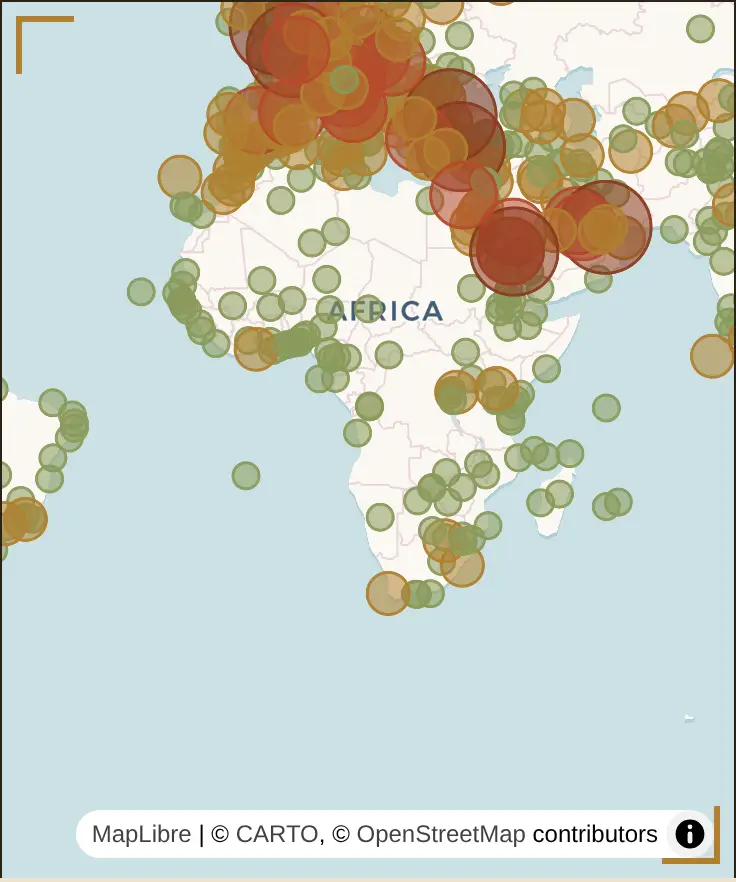
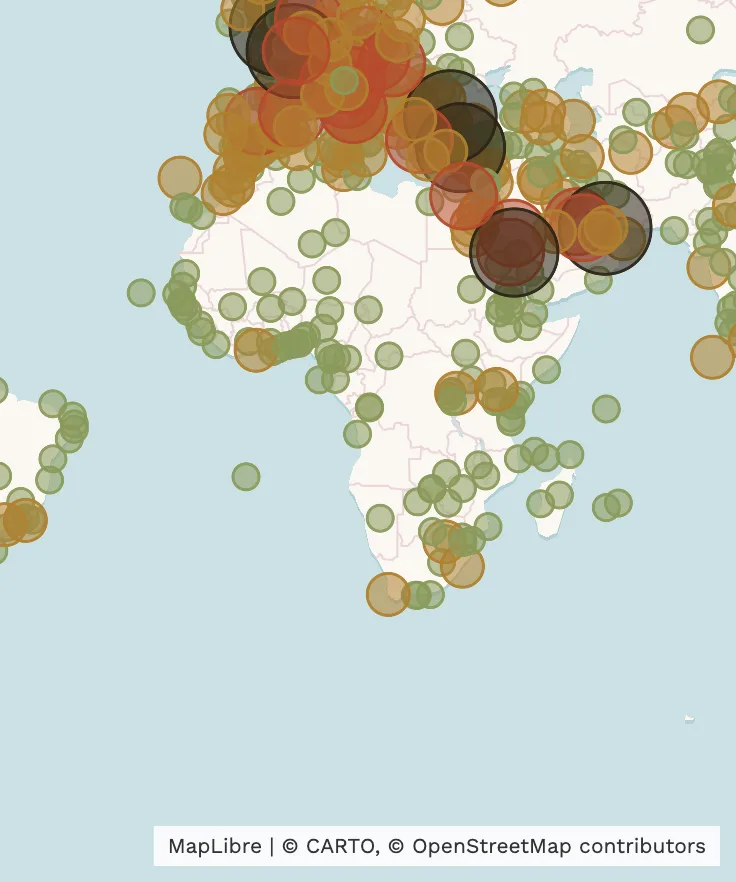
Homepage picks driven by the list pages' data, with shuffle; globe intro, legend tier toggles, ink 12M+ bubbles
The three homepage cards (Top visited, Underrated pick, Seasonal pick) were
fixed placeholders (Hong Kong, Lisbon, Marrakech; Lisbon was not on the
underrated list). Each now draws a random city from the same set its list
page shows, and "shuffle picks" draws new ones.
- underrated-picks-data.js: the editors' list, moved out of
  underrated-picks.html so the page and the homepage share one copy.
- season-picks.js: the month rule (ideal / events / avoid), moved out of
  best-time-to-visit.html; the homepage seasonal pool is the same 12 ideal
  cities that page shows this month. city-seasons.js loads after the cards
  paint.
- Cards: tag above the photo, "show more <tag>s" text link to the list page,
  "visit guide" opens the city's guide.
- Text above the globe: City Guides button (cities.html), "interactive
  globe", hint on its own small italic line.
- Legend: hide/show per visitor tier (filters the bubbles; on phones a tap
  also starts the live globe).
- 12 million+ bubbles in ink #2b2417 so they read apart from the rust tier;
  phone still-map picture regenerated from the live globe (736x882).

Verified: checkjs 0 errors on all three pages, node --check on both js;
homepage pools match the list pages (16 underrated, 12 ideal for October,
44 top visited); tier filter counts 522/172/30/12 hide and restore; no
overflow and two cards per row at 320/360/375/390/430, one row at 768/1280;
200 shuffles at 320 with no stacking; screenshots at 320, 375 and desktop.

diff --git a/index.html b/index.html
@@ -139,7 +139,11 @@
   .legend-toggle.visible{display:inline-flex;}
   .map-legend b{display:block;margin-bottom:6px;font-size:.82rem;padding-right:16px}
   .legend-row{display:flex;align-items:center;gap:8px;color:var(--muted);margin-top:4px}
-  .legend-bubble{display:inline-block;border-radius:50%;background:rgba(138,58,32,.55);border:1.5px solid #8a3a20}
+  .tier-toggle{margin-left:auto;padding:0 6px;line-height:1.5;background:none;border:1px solid var(--line);border-radius:0;font-family:'Work Sans',sans-serif;font-size:.62rem;font-weight:600;letter-spacing:.04em;text-transform:uppercase;color:var(--ink);cursor:pointer;flex:none}
+  .tier-toggle:hover{border-color:var(--coral);color:var(--coral)}
+  .legend-row.tier-off{opacity:.45}
+  .legend-row.tier-off .tier-toggle{opacity:1}
+  .legend-bubble{display:inline-block;border-radius:50%;background:rgba(43,36,23,.55);border:1.5px solid #2b2417}
   .legend-bubble.purple{background:rgba(168,72,42,.5);border-color:#b5492c}
   .legend-bubble.pink{background:rgba(176,128,47,.5);border-color:#b0802f}
   .legend-bubble.yellow{background:rgba(138,154,91,.55);border-color:#8a9a5b}
@@ -278,6 +282,9 @@
   .dest-cta-icon{color:var(--brass-lt)}
   .dest-cta-btn:hover{background:var(--coral)}
   .dest-cta-btn:hover .dest-cta-icon{transform:rotate(135deg)}
+  .guides-btn{padding:6px 16px 6px 10px;vertical-align:middle;line-height:1.4}
+  .guides-btn .dest-cta-icon{width:18px;height:18px}
+  .globe-hint{display:block;font-style:italic;font-size:.85rem;line-height:1.5;margin-top:2px}
 
 
 
@@ -288,17 +295,17 @@
 
   /* ---- full-design: waypoint featured cities on a dashed route ---- */
   .stories{max-width:var(--maxw);margin:30px auto 36px;padding:0 22px;position:relative;display:flex;gap:26px;justify-content:space-evenly;flex-wrap:wrap}
-  .stories::before{content:"";position:absolute;left:8%;right:8%;top:44px;border-top:2px dashed rgba(168,72,42,.4);z-index:0}
+  .stories::before{content:"";position:absolute;left:8%;right:8%;top:98px;border-top:2px dashed rgba(168,72,42,.4);z-index:0}
   .story{position:relative;z-index:1;display:flex;flex-direction:column;align-items:center;gap:9px;cursor:pointer;transition:transform .2s;text-decoration:none}
   .story:hover{transform:translateY(-5px)}
   .story .frame{position:relative;width:92px;height:92px;border:2px solid var(--ink);background:var(--sand);padding:4px}
   .story:hover .frame{border-color:var(--coral)}
   .story .frame .ph{width:100%;height:100%;background-size:cover;background-position:center;background-color:var(--paper-2);filter:sepia(.18) saturate(.95)}
-  .story .cat{display:inline-block;margin-top:6px;color:#fff;font-family:'Work Sans',monospace;font-size:.54rem;font-weight:600;letter-spacing:.08em;text-transform:uppercase;padding:3px 8px;line-height:1.4}
-  .story .cat.fx-new{background:var(--coral)}
-  .story .cat.fx-top{background:var(--teal)}
-  .story .cat.fx-under{background:var(--brass)}
-  .story .cat.fx-season{background:var(--rust-dk)}
+  .stories .cat{display:inline-block;margin-top:0;color:#fff;font-family:'Work Sans',monospace;font-size:.54rem;font-weight:600;letter-spacing:.08em;text-transform:uppercase;padding:3px 8px;line-height:1.4}
+  .stories .cat.fx-new{background:var(--coral)}
+  .stories .cat.fx-top{background:var(--teal)}
+  .stories .cat.fx-under{background:var(--brass)}
+  .stories .cat.fx-season{background:var(--rust-dk)}
   .story .frame .pin{position:absolute;bottom:-8px;left:50%;transform:translateX(-50%);width:10px;height:10px;border-radius:50%;background:var(--brass);border:2px solid var(--sand);box-shadow:0 0 6px rgba(176,128,47,.6)}
   .story figcaption{text-align:center}
   .story figcaption .nm{display:block;font-family:'Fraunces',serif;font-weight:700;font-size:1.1rem;color:var(--ink)}
@@ -309,6 +316,14 @@
   .story-item .see-more{margin-top:6px;font-family:'Work Sans',monospace;font-size:.62rem;font-weight:600;letter-spacing:.04em;color:var(--teal);text-decoration:none;border-bottom:1px solid transparent;transition:.2s}
   .story-item .see-more:hover{color:var(--coral);border-bottom-color:var(--coral)}
   @media(max-width:560px){.stories::before{display:none}.story .frame{width:78px;height:78px}}
+  .story-item .list-more{margin:5px 0 10px;font-family:'Work Sans',monospace;font-size:.62rem;font-weight:600;letter-spacing:.04em;color:var(--teal);text-decoration:none;border-bottom:1px solid transparent;transition:.2s}
+  .story-item .list-more:hover{color:var(--coral);border-bottom-color:var(--coral)}
+  .story-item .list-more .lm-tag{white-space:nowrap}
+  @media(max-width:560px){.story-item{max-width:120px}.story-item .list-more,.story figcaption{text-align:center}.story-item .list-more .lm-tag{display:block}}
+  .stories-shuffle button svg{width:13px;height:13px;vertical-align:-2px;margin-right:6px}
+  .stories-shuffle{text-align:center;margin:-18px auto 30px;padding:0 22px}
+  .stories-shuffle button{font-family:'Work Sans',sans-serif;font-size:.7rem;font-weight:600;letter-spacing:.06em;text-transform:uppercase;color:var(--ink);background:transparent;border:1px solid var(--ink);border-radius:0;padding:7px 14px;cursor:pointer;transition:.2s}
+  .stories-shuffle button:hover{color:#fff;background:var(--coral);border-color:var(--coral)}
 
   /* ---- full-design: rust italic emphasis in section heads ---- */
   .section-head h2 em{font-style:italic;color:var(--coral)}
@@ -353,17 +368,18 @@
 
 <!-- ===== Waypoint featured cities ===== -->
 <div class="stories" id="featured-cities" aria-label="Featured cities"></div>
+<div class="stories-shuffle"><button type="button" id="fx-shuffle"><svg viewBox="0 0 24 24" fill="none" stroke="currentColor" stroke-width="2" stroke-linecap="square" aria-hidden="true"><path d="M16 3h5v5"/><path d="M4 20 21 3"/><path d="M21 16v5h-5"/><path d="M15 15l6 6"/><path d="M4 4l5 5"/></svg>shuffle picks</button></div>
 
-<p class="sub" style="max-width:620px;margin:0 auto 14px;text-align:center;color:var(--muted);font-size:1.05rem">Scan the globe to discover the world's most traveled cities & destinations. Click on a location bubble to learn more</p>
+<p class="sub" style="max-width:620px;margin:0 auto 14px;text-align:center;color:var(--muted);font-size:1.05rem;line-height:2.4">Check out our <a class="dest-cta-btn guides-btn" href="cities.html"><svg class="dest-cta-icon" aria-hidden="true"><use href="#compass"/></svg>City Guides</a> to discover the world's most traveled destinations or scan the interactive globe below.<span class="globe-hint">Click on a location bubble to learn more</span></p>
 <div class="map-wrap">
   <div id="map"></div>
   <div class="map-legend">
     <button id="legend-close" class="legend-close" aria-label="Hide the map key">✕</button>
     <b>Annual international visitors</b>
-    <div class="legend-row"><span class="legend-bubble yellow" style="width:10px;height:10px"></span> under 1 million</div>
-    <div class="legend-row"><span class="legend-bubble pink" style="width:14px;height:14px"></span> under 5 million</div>
-    <div class="legend-row"><span class="legend-bubble purple" style="width:20px;height:20px"></span> under 12 million</div>
-    <div class="legend-row"><span class="legend-bubble" style="width:28px;height:28px"></span> 12 million +</div>
+    <div class="legend-row" data-tier="0"><span class="legend-bubble yellow" style="width:10px;height:10px"></span> under 1 million<button type="button" class="tier-toggle" aria-pressed="false" aria-label="Hide under 1 million bubbles">hide</button></div>
+    <div class="legend-row" data-tier="1"><span class="legend-bubble pink" style="width:14px;height:14px"></span> under 5 million<button type="button" class="tier-toggle" aria-pressed="false" aria-label="Hide under 5 million bubbles">hide</button></div>
+    <div class="legend-row" data-tier="2"><span class="legend-bubble purple" style="width:20px;height:20px"></span> under 12 million<button type="button" class="tier-toggle" aria-pressed="false" aria-label="Hide under 12 million bubbles">hide</button></div>
+    <div class="legend-row" data-tier="3"><span class="legend-bubble" style="width:28px;height:28px"></span> 12 million +<button type="button" class="tier-toggle" aria-pressed="false" aria-label="Hide 12 million + bubbles">hide</button></div>
     <div class="legend-row" style="margin-top:8px" id="legend-hint">Hover a bubble for details</div>
   </div>
   <button id="legend-toggle" class="legend-toggle" aria-label="Show the map key">⊕ Key</button>
@@ -411,6 +427,9 @@
 <script src="city-photos.js"></script>
 <script src="posts.js"></script>
 <script src="country-fold.js"></script>
+<script src="city-intl-visitors.js"></script>
+<script src="underrated-picks-data.js"></script>
+<script src="season-picks.js"></script>
 <script>
 /* ---------------------------------------------------------
    STARTER CITY DATA
@@ -1319,18 +1338,32 @@ const CITIES = [
   {city:"Cairo", country:"Egypt", lng:31.2357, lat:30.0444, visitors:5, est:true},
 ];
 
-/* ===== Featured cities — 3 curated slots (real photos + guide links) ===== */
+/* ===== Featured cities — 3 slots drawn from the data behind each list page ===== */
 (function(){
-  /* Which city fills each slot will be driven by real data soon
-     (top visited, editor's underrated pick, seasonal pick).
-     For now these are easy-to-edit placeholders — just change the "city"
-     values below. Each must match a city name in the CITIES list above.
-     "more" links to the page that lists out that slot's full category. */
+  /* Each slot shows a random city from the same set its list page shows:
+       Top visited     -> city-intl-visitors.js (every city top-visited.html shows)
+       Underrated pick -> underrated-picks-data.js (the editors' list)
+       Seasonal pick   -> the "Ideal" cities best-time-to-visit.html shows for
+                          this month (season-picks.js rule on city-seasons.js)
+     "shuffle picks" draws a new city for every slot. city-seasons.js is
+     large, so it loads after the cards paint and fills the seasonal slot then. */
+  function names(list){ return (list || []).map(function(x){ return x.city; }); }
+  function seasonalPool(){
+    if (!window.NRA_SEASON || !window.NRA_monthBuckets || typeof CITIES === "undefined") return [];
+    var B = window.NRA_monthBuckets(new Date().getMonth() + 1, CITIES);
+    return names(B.ideal.slice(0, window.NRA_IDEAL_SHOWN).map(function(x){ return x.c; }));
+  }
   var FEATURED = [
-    { label:"Top visited",            city:"Hong Kong", cls:"fx-top",    more:"top-visited.html" },
-    { label:"Underrated pick", city:"Lisbon",    cls:"fx-under",  more:"underrated-picks.html" },
-    { label:"Seasonal pick",          city:"Marrakech", cls:"fx-season", more:"best-time-to-visit.html" }
+    { label:"Top visited",     pool:names(window.NRA_CITY_INTL_VISITORS), cls:"fx-top",    more:"top-visited.html" },
+    { label:"Underrated pick", pool:names(window.NRA_UNDERRATED),         cls:"fx-under",  more:"underrated-picks.html" },
+    { label:"Seasonal pick",   pool:[],                                   cls:"fx-season", more:"best-time-to-visit.html" }
   ];
+  // A random city from the slot's pool, never the one it shows now.
+  function draw(f){
+    var p = f.pool.filter(function(n){ return n !== f.city; });
+    if (!p.length) p = f.pool;
+    f.city = p.length ? p[Math.floor(Math.random() * p.length)] : "";
+  }
   function ph(name){
     var rec = (window.NRA_CITY_PHOTO || {})[name];
     var img = (rec && rec.img) ? rec.img : "";
@@ -1364,18 +1397,21 @@ const CITIES = [
       spc.textContent = Object.keys(countries).length + " countries";
     }
     el.innerHTML = FEATURED.map(function(f){
+      var head = '<span class="cat '+f.cls+'">'+f.label+'</span>'
+        + '<a class="list-more" href="'+f.more+'">show more <span class="lm-tag">'+f.label.toLowerCase().replace(/ pick$/, " picks")+'&nbsp;&rarr;</span></a>';
+      if (!f.city) return '<div class="story-item">'+head+'<div class="story"><div class="frame"><div class="ph"></div><span class="pin"></span></div>'
+        + '<figcaption><span class="nm">&nbsp;</span></figcaption></div></div>';
       var c = find(f.city);
       var country = c ? c.country : "";
       var img = ph(f.city);
       var bg = img ? "background-image:url('"+img+"')" : "";
-      return '<div class="story-item">'
+      return '<div class="story-item">' + head
         + '<a class="story" href="city.html?city='+encodeURIComponent(f.city)+'">'
         + '<div class="frame"><div class="ph" role="img" aria-label="'+f.city+'" style="'+bg+'"></div><span class="pin"></span></div>'
         + '<figcaption><span class="nm">'+f.city+'</span>'
         + (country ? '<small>'+country+'</small>' : '')
-        + '<span class="cat '+f.cls+'">'+f.label+'</span>'
         + '</figcaption></a>'
-        + (f.more ? '<a class="see-more" href="'+f.more+'">See more &rarr;</a>' : '')
+        + '<a class="see-more" href="city.html?city='+encodeURIComponent(f.city)+'">visit guide &rarr;</a>'
         + '</div>';
     }).join("");
   }
@@ -1383,7 +1419,23 @@ const CITIES = [
   // everything it needs is already loaded. Waiting for DOMContentLoaded made
   // these above-the-fold cards (the page's largest visible content) paint
   // seconds late on slow connections.
+  FEATURED.forEach(draw);
   render();
+  function loadSeasons(){
+    FEATURED[2].pool = seasonalPool();
+    draw(FEATURED[2]);
+    render();
+  }
+  if (window.NRA_SEASON) loadSeasons();
+  else {
+    var sc = document.createElement("script");
+    sc.src = "city-seasons.js";
+    sc.async = true;
+    sc.onload = loadSeasons;
+    document.head.appendChild(sc);
+  }
+  var btn = document.getElementById("fx-shuffle");
+  if (btn) btn.addEventListener("click", function(){ FEATURED.forEach(draw); render(); });
 })();
 
 
@@ -1395,6 +1447,42 @@ const geojson = {
     geometry:{ type:"Point", coordinates:[c.lng, c.lat] }
   }))
 };
+
+/* Legend show/hide per bubble tier. Tiers match the bubble colour steps
+   below: 0 = under 1M, 1 = under 5M, 2 = under 12M, 3 = 12M+. The choice is
+   kept here so it also applies when the globe starts after a click. */
+const hiddenTiers = new Set();
+let globeMap = null;
+function tierFilter(){
+  if(!hiddenTiers.size) return null;
+  const v = ["get","visitors"];
+  const ranges = [
+    ["<", v, 1],
+    ["all", [">=", v, 1], ["<", v, 5]],
+    ["all", [">=", v, 5], ["<", v, 12]],
+    [">=", v, 12]
+  ];
+  return ["!", ["any", ...[...hiddenTiers].map(t => ranges[t])]];
+}
+function applyTierFilter(){
+  if(globeMap && globeMap.getLayer("city-bubbles")) globeMap.setFilter("city-bubbles", tierFilter());
+}
+document.querySelectorAll(".map-legend .legend-row[data-tier]").forEach(row => {
+  const t = +row.dataset.tier;
+  const b = row.querySelector(".tier-toggle");
+  const label = row.textContent.replace(/(hide|show)$/, "").trim();
+  // No stopPropagation: on phones the click also starts the live globe
+  // (the still picture cannot hide bubbles), and the filter applies on load.
+  b.addEventListener("click", () => {
+    const off = !hiddenTiers.has(t);
+    if(off) hiddenTiers.add(t); else hiddenTiers.delete(t);
+    row.classList.toggle("tier-off", off);
+    b.textContent = off ? "show" : "hide";
+    b.setAttribute("aria-pressed", off ? "true" : "false");
+    b.setAttribute("aria-label", (off ? "Show " : "Hide ") + label + " bubbles");
+    applyTierFilter();
+  });
+});
 
 /* Perf: the WebGL globe is heavy to start, so it only initializes when the
    map area is on (or near) the screen — immediately if it's already visible. */
@@ -1422,12 +1510,13 @@ map.on("load", () => {
 
   // Bubble color/size tiers by annual international visitors (millions):
   // under 1M small yellow, under 5M slightly larger pink, under 12M slightly
-  // larger purple, 12M+ same size/color the map has always used (coral, scaling on up).
+  // larger purple, 12M+ ink (brand near-black, so it reads apart from the
+  // rust under-12M tier), scaling on up.
   const bubbleColor = ["step", ["get","visitors"],
     "#8a9a5b",
     1, "#b0802f",
     5, "#b5492c",
-    12, "#8a3a20"
+    12, "#2b2417"
   ];
   const bubbleRadius = ["step", ["get","visitors"],
     6,
@@ -1450,6 +1539,8 @@ map.on("load", () => {
       "circle-stroke-opacity":0.95
     }
   });
+  globeMap = map;
+  applyTierFilter();
 
   const popup = new maplibregl.Popup({ closeButton:false, closeOnClick:false, offset:14, maxWidth:"260px" });
   let pinned = false;

diff --git a/underrated-picks.html b/underrated-picks.html
@@ -104,37 +104,16 @@
 
 <script src="destinations.js"></script>
 <script src="city-photos.js"></script>
+<script src="underrated-picks-data.js"></script>
 <script>
-/* ==================================================================
-   UNDERRATED PICKS — a hand-curated editors' list (not data-driven
-   by visitor count alone; picked for the gap between how good these
-   cities are and how few travelers know it). Each entry just needs a
-   city name that matches window.NRA_DESTINATIONS + a one-line "why".
-   Add or swap cities by editing the PICKS array below.
-================================================================== */
+/* UNDERRATED PICKS — the list lives in underrated-picks-data.js (shared with
+   the homepage "Underrated pick" card). Add or swap cities there. */
 (function(){
   const CITIES = window.NRA_DESTINATIONS || [];
   const PHOTOS = window.NRA_CITY_PHOTO || {};
   const slug = s => String(s).toLowerCase().replace(/[^a-z0-9]+/g,'-').replace(/(^-|-$)/g,'');
 
-  const PICKS = [
-    { city:"Tbilisi", why:"A walkable old town of balconied houses, sulfur bathhouses, and a wine scene 8,000 years in the making." },
-    { city:"Ljubljana", why:"A dragon-guarded river capital small enough to see on foot in a day, with none of the Alpine crowds." },
-    { city:"Sarajevo", why:"East meets West across one small valley — Ottoman bazaar, Austro-Hungarian boulevards, and unmatched hospitality." },
-    { city:"Mostar", why:"The rebuilt Stari Most bridge and a cobbled Old Bazaar, a fraction of nearby Dubrovnik's crowds." },
-    { city:"Kotor", why:"A walled medieval town on a fjord-like bay, with a mountain of switchback ramparts to climb behind it." },
-    { city:"Ohrid", why:"A UNESCO lake and hilltop churches that most Balkan itineraries still skip entirely." },
-    { city:"Plovdiv", why:"One of Europe's oldest continuously inhabited cities, with a Roman amphitheater still in daily use." },
-    { city:"Matera", why:"Cave dwellings carved into a canyon wall, inhabited since the Paleolithic — jaw-dropping and still off most maps." },
-    { city:"Valparaíso", why:"A hillside port city of funiculars and street art overlooking the Pacific, overshadowed by Santiago." },
-    { city:"Cuenca", why:"Colonial architecture, four rivers, and a springlike climate year-round, at a fraction of Quito's visitor count." },
-    { city:"Luang Prabang", why:"Gilded temples and a Mekong sunset ritual of saffron-robed monks collecting alms at dawn." },
-    { city:"Battambang", why:"French colonial shopfronts, a bamboo 'train,' and Cambodia's best-preserved provincial charm." },
-    { city:"Yazd", why:"A desert city of wind towers and mudbrick alleyways, home to one of the world's oldest continuous communities." },
-    { city:"Bukhara", why:"Silk Road minarets and madrasas in a compact old town, quieter than Samarkand but just as striking." },
-    { city:"Zanzibar City", why:"Stone Town's spice-market alleys and dhow harbor, a slower, older story than the island's beach resorts." },
-    { city:"Chefchaouen", why:"Morocco's blue-washed mountain town, small enough to wander in an afternoon and stay for a week." }
-  ];
+  const PICKS = window.NRA_UNDERRATED || [];
 
   function find(name){ return CITIES.find(c => c.city === name); }
 

diff --git a/underrated-picks-data.js b/underrated-picks-data.js
@@ -1,0 +1,24 @@
+/* Never Roam Alone — UNDERRATED PICKS, a hand-curated editors' list (not
+   data-driven by visitor count alone; picked for the gap between how good
+   these cities are and how few travelers know it). Each entry needs a city
+   name that matches destinations.js + a one-line "why".
+   The one copy of the list: underrated-picks.html shows it in full and the
+   homepage "Underrated pick" card draws from it. Add or swap cities here. */
+window.NRA_UNDERRATED = [
+  { city:"Tbilisi", why:"A walkable old town of balconied houses, sulfur bathhouses, and a wine scene 8,000 years in the making." },
+  { city:"Ljubljana", why:"A dragon-guarded river capital small enough to see on foot in a day, with none of the Alpine crowds." },
+  { city:"Sarajevo", why:"East meets West across one small valley — Ottoman bazaar, Austro-Hungarian boulevards, and unmatched hospitality." },
+  { city:"Mostar", why:"The rebuilt Stari Most bridge and a cobbled Old Bazaar, a fraction of nearby Dubrovnik's crowds." },
+  { city:"Kotor", why:"A walled medieval town on a fjord-like bay, with a mountain of switchback ramparts to climb behind it." },
+  { city:"Ohrid", why:"A UNESCO lake and hilltop churches that most Balkan itineraries still skip entirely." },
+  { city:"Plovdiv", why:"One of Europe's oldest continuously inhabited cities, with a Roman amphitheater still in daily use." },
+  { city:"Matera", why:"Cave dwellings carved into a canyon wall, inhabited since the Paleolithic — jaw-dropping and still off most maps." },
+  { city:"Valparaíso", why:"A hillside port city of funiculars and street art overlooking the Pacific, overshadowed by Santiago." },
+  { city:"Cuenca", why:"Colonial architecture, four rivers, and a springlike climate year-round, at a fraction of Quito's visitor count." },
+  { city:"Luang Prabang", why:"Gilded temples and a Mekong sunset ritual of saffron-robed monks collecting alms at dawn." },
+  { city:"Battambang", why:"French colonial shopfronts, a bamboo 'train,' and Cambodia's best-preserved provincial charm." },
+  { city:"Yazd", why:"A desert city of wind towers and mudbrick alleyways, home to one of the world's oldest continuous communities." },
+  { city:"Bukhara", why:"Silk Road minarets and madrasas in a compact old town, quieter than Samarkand but just as striking." },
+  { city:"Zanzibar City", why:"Stone Town's spice-market alleys and dhow harbor, a slower, older story than the island's beach resorts." },
+  { city:"Chefchaouen", why:"Morocco's blue-washed mountain town, small enough to wander in an afternoon and stay for a week." }
+];

diff --git a/best-time-to-visit.html b/best-time-to-visit.html
@@ -143,6 +143,7 @@
 <script src="destinations.js"></script>
 <script src="city-photos.js"></script>
 <script src="city-seasons.js"></script>
+<script src="season-picks.js"></script>
 <script>
 /* ==================================================================
    WHERE TO GO THIS MONTH — built from window.NRA_SEASON (per-quarter
@@ -190,27 +191,12 @@
     document.getElementById("hero-title").textContent = "Where to Go in " + MONTHS[month-1];
     document.getElementById("page-title").textContent = "Where to Go in " + MONTHS[month-1] + " — Never Roam Alone";
 
-    const q = Math.floor((month - 1) / 3);   // 0-3, matches the t[]/r[] quarter arrays
-    const ideal = [], events = [], avoid = [], noData = [];
+    // The sorting rule lives in season-picks.js (shared with the homepage card).
+    const B = window.NRA_monthBuckets(month, CITIES);
+    const ideal = B.ideal, events = B.events, avoid = B.avoid;
 
-    CITIES.forEach(c => {
-      const S = SEASON[c.city];
-      if(!S){ noData.push(c); return; }
-      const ev = (S.ev || []).find(e => e.m.indexOf(month) >= 0);
-      if(ev) events.push({ c, label: ev.l });
-      const t = S.t ? S.t[q] : null;
-      const rd = S.r ? S.r[q] : null;   // rainy days per month
-      if(!ev){
-        if(t != null && t >= 95) avoid.push({ c, why: "Very hot this month" });
-        else if(rd != null && rd >= 15) avoid.push({ c, why: "Deep in rainy season" });
-        else if(t != null && t <= 40) avoid.push({ c, why: "Very cold this month" });
-        else if(t != null && t >= 62 && t <= 88 && (rd == null || rd < 12)) ideal.push({ c, t });
-      }
-    });
-
-    ideal.sort((a,b) => Math.abs(75-a.t) - Math.abs(75-b.t));   // closest to a comfortable 75°F first
     const idealGrid = document.getElementById("ideal-grid");
-    idealGrid.innerHTML = ideal.slice(0, 12).map(x => cardHTML(x.c, "☀ Ideal", "", `Averaging around ${Math.round(x.t)}°F this time of year — ${x.c.tagline.toLowerCase()}`)).join("");
+    idealGrid.innerHTML = ideal.slice(0, window.NRA_IDEAL_SHOWN).map(x => cardHTML(x.c, "☀ Ideal", "", `Averaging around ${Math.round(x.t)}°F this time of year — ${x.c.tagline.toLowerCase()}`)).join("");
     document.getElementById("ideal-empty").style.display = ideal.length ? "none" : "";
 
     const eventSection = document.getElementById("event-section");

diff --git a/season-picks.js b/season-picks.js
@@ -1,0 +1,30 @@
+/* Never Roam Alone — the one rule for sorting cities by month, from
+   window.NRA_SEASON (city-seasons.js). Used by best-time-to-visit.html
+   and the homepage "Seasonal pick" card, so both always agree.
+   NRA_monthBuckets(month 1-12, cities [{city,...}]) returns
+   { ideal:[{c,t}], events:[{c,label}], avoid:[{c,why}], noData:[c] };
+   ideal is sorted closest to a comfortable 75°F first, ties by name. */
+window.NRA_monthBuckets = function(month, cities){
+  var SEASON = window.NRA_SEASON || {};
+  var q = Math.floor((month - 1) / 3);   // 0-3, matches the t[]/r[] quarter arrays
+  var ideal = [], events = [], avoid = [], noData = [];
+  (cities || []).forEach(function(c){
+    var S = SEASON[c.city];
+    if(!S){ noData.push(c); return; }
+    var ev = (S.ev || []).find(function(e){ return e.m.indexOf(month) >= 0; });
+    if(ev) events.push({ c: c, label: ev.l });
+    var t = S.t ? S.t[q] : null;
+    var rd = S.r ? S.r[q] : null;   // rainy days per month
+    if(!ev){
+      if(t != null && t >= 95) avoid.push({ c: c, why: "Very hot this month" });
+      else if(rd != null && rd >= 15) avoid.push({ c: c, why: "Deep in rainy season" });
+      else if(t != null && t <= 40) avoid.push({ c: c, why: "Very cold this month" });
+      else if(t != null && t >= 62 && t <= 88 && (rd == null || rd < 12)) ideal.push({ c: c, t: t });
+    }
+  });
+  ideal.sort(function(a,b){ return (Math.abs(75-a.t) - Math.abs(75-b.t)) || a.c.city.localeCompare(b.c.city); });
+  return { ideal: ideal, events: events, avoid: avoid, noData: noData };
+};
+/* How many ideal cities best-time-to-visit.html shows; the homepage card
+   picks from the same set so "See more" always lists the city it showed. */
+window.NRA_IDEAL_SHOWN = 12;
